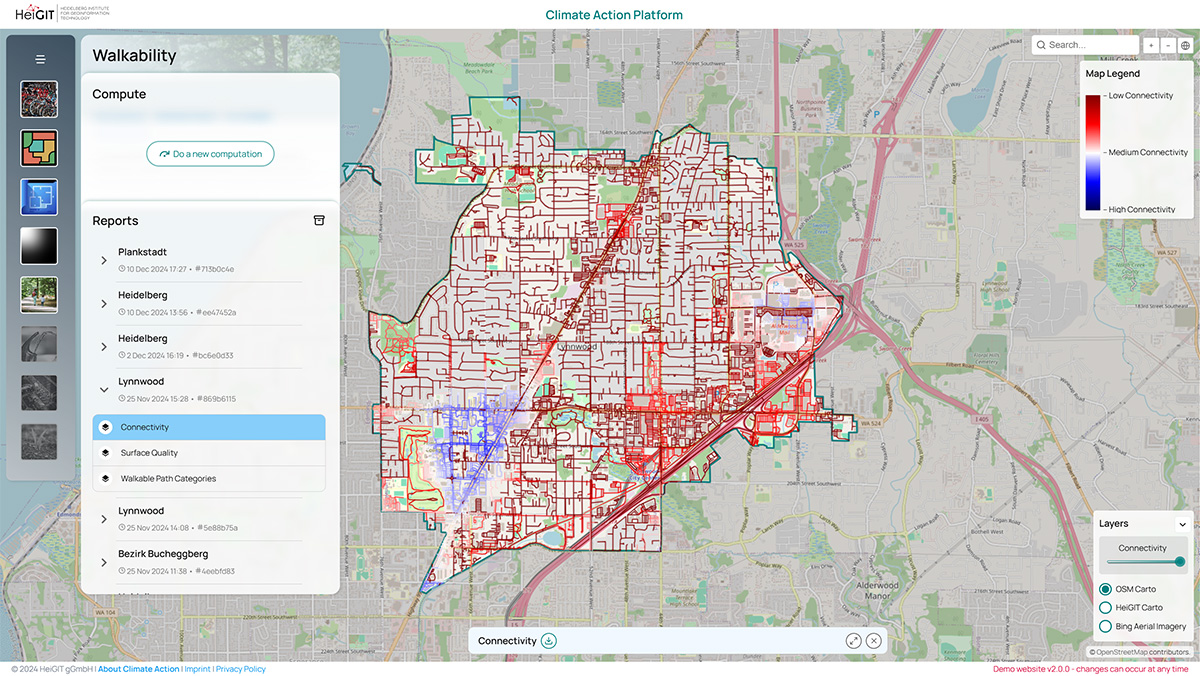
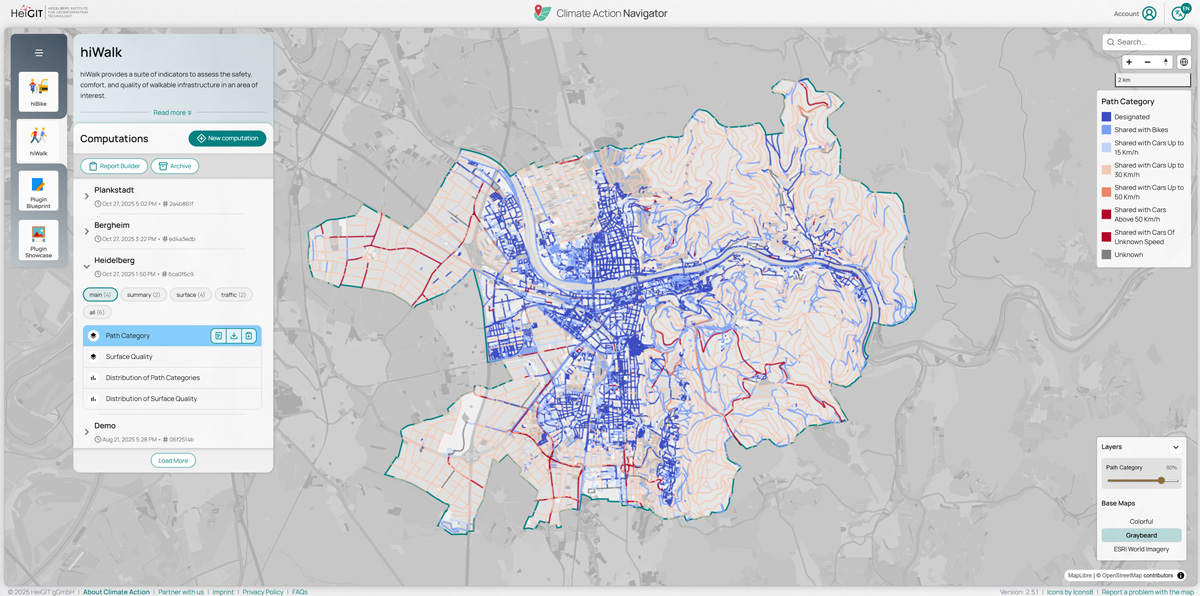
release: 3.0.0

diff --git a/CHANGELOG.md b/CHANGELOG.md
@@ -5,7 +5,9 @@ All notable changes to this project will be documented in this file.
 The format is based on [Keep a Changelog](https://keepachangelog.com/en/1.1.0/),
 and this project mostly adheres to [Semantic Versioning](https://semver.org/spec/v2.0.0.html).
 
-## [Unreleased](https://gitlab.heigit.org/climate-action/web-app/-/compare/2.5.1...main)
+## [Unreleased](https://gitlab.heigit.org/climate-action/web-app/-/compare/3.0.0...main)
+
+## [3.0.0](https://gitlab.heigit.org/climate-action/web-app/-/releases/3.0.0) - 2025-12-09
 
 ### Changed
 
